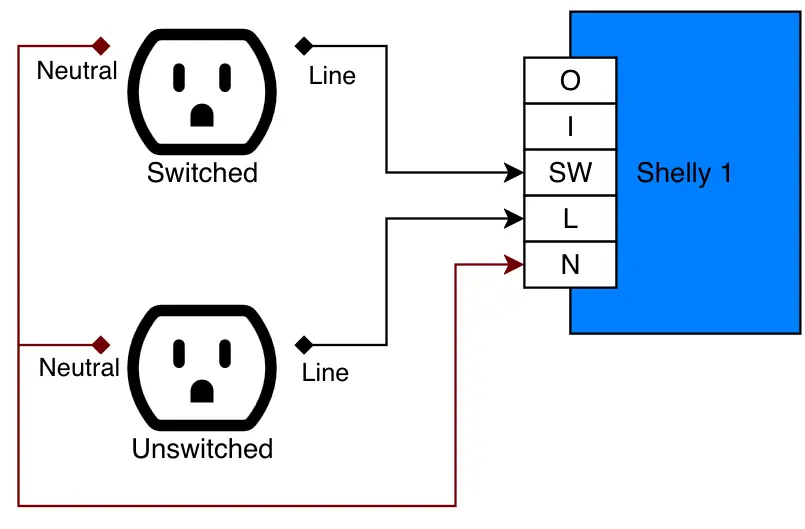
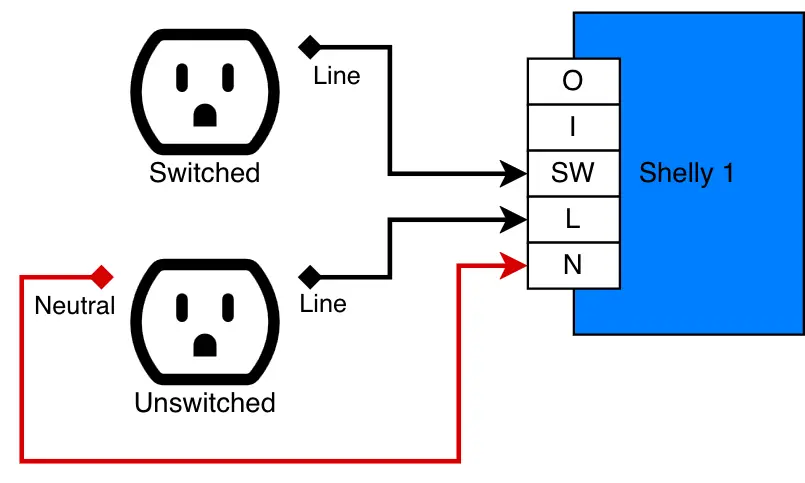
Publish the outlet power sensor post.

Changed region(s): [[0.0, 0.0, 1.0, 0.9627]]

diff --git a/content/posts/outlet-power-sensor/index.md b/content/posts/outlet-power-sensor/index.md
@@ -12,8 +12,6 @@ tags:
 
 categories:
   - Projects
-
-draft: true
 ---
 
 ## The Problem
@@ -31,7 +29,7 @@ What if I could just plug in a device to the outlet that would detect if the swi
 
 Enter the "outlet power sensor" (name pending — [suggestions?](mailto:outlet-power-sensor@corb.co))
 
-{{< figure src="outlet-power-sensor.webp" title="Initial Prototype Sensor" alt="Prototype sensor" width="90%" align=center >}}
+{{< figure src="outlet-power-sensor.webp" caption="Prototype sensor with switched output" alt="Prototype sensor" width="90%" align=center >}}
 
 The sensor has two separate plugs that must both be connected. One provides constant power to run the device, and the other is the sensor plug. When the sensor plug is connected to power, a `binary_sensor` in Home Assistant will be activated instantly.
 
@@ -69,9 +67,13 @@ The Shelly already provides the high-voltage connections we need safely, and it'
 
 Note that Shelly now has many versions. The [Shelly 1 Mini](https://us.shelly.com/products/shelly-1-mini-gen3) would likely be a perfect replacement for the older Shelly 1. Just make sure you use the correct terminals and [update the GPIO pins and board type accordingly in ESPHome](https://devices.esphome.io/devices/shelly-1-mini-gen3/).
 
-### Wiring Diagram
+### Wiring
 
 {{< figure src="schematic.webp" alt="Wiring Diagram" width="70%" align=center caption="Diagram for the simple version without outputs" >}}
+
+For the version without outputs, the wiring is very simple. The Shelly is powered by the line/hot (`L`) and neutral (`N`) wires from the unswitched outlet. From the switched outlet, connect the line/hot side (smaller slot) to connect to the switch input (`SW`) on the Shelly. This way, the Shelly can sense when there is power on the switched outlet.
+
+The `O` and `I` terminals are not used for this setup. If you want to have a separate switched _output_, you'll use these terminals to pass through the relay.
 
 ## Software - ESPHome
 
@@ -112,6 +114,7 @@ binary_sensor:
     name: "Bedroom Outlet Sensor"
     device_class: power
 
+# Only relevant if you included outputs.
 switch:
   - platform: gpio
     pin: GPIO4
@@ -124,9 +127,10 @@ That's the entire configuration. It just sets up a `binary_sensor` representing 
 
 Using ESPHome has another benefit: autodiscovery in Home Assistant. If you flash the new configuration to your Shelly, Home Assistant should prompt you to configure the device automatically.
 
-After it's set up, you should have a new entry in the "Configuration -> Devices" menu of Home Assistant:
+After it's set up, you should have a new entry in the "Settings → Devices" menu of Home Assistant:
 
 {{< figure src="esphome-device-in-home-assistant.webp" alt="Screenshot of Home Assistant integration" width="70%" align=center >}}
+
 At this point, you can flip the switch on the wall and you should see the outlet sensor entity change state. That means we're almost done.
 
 ### Automation
